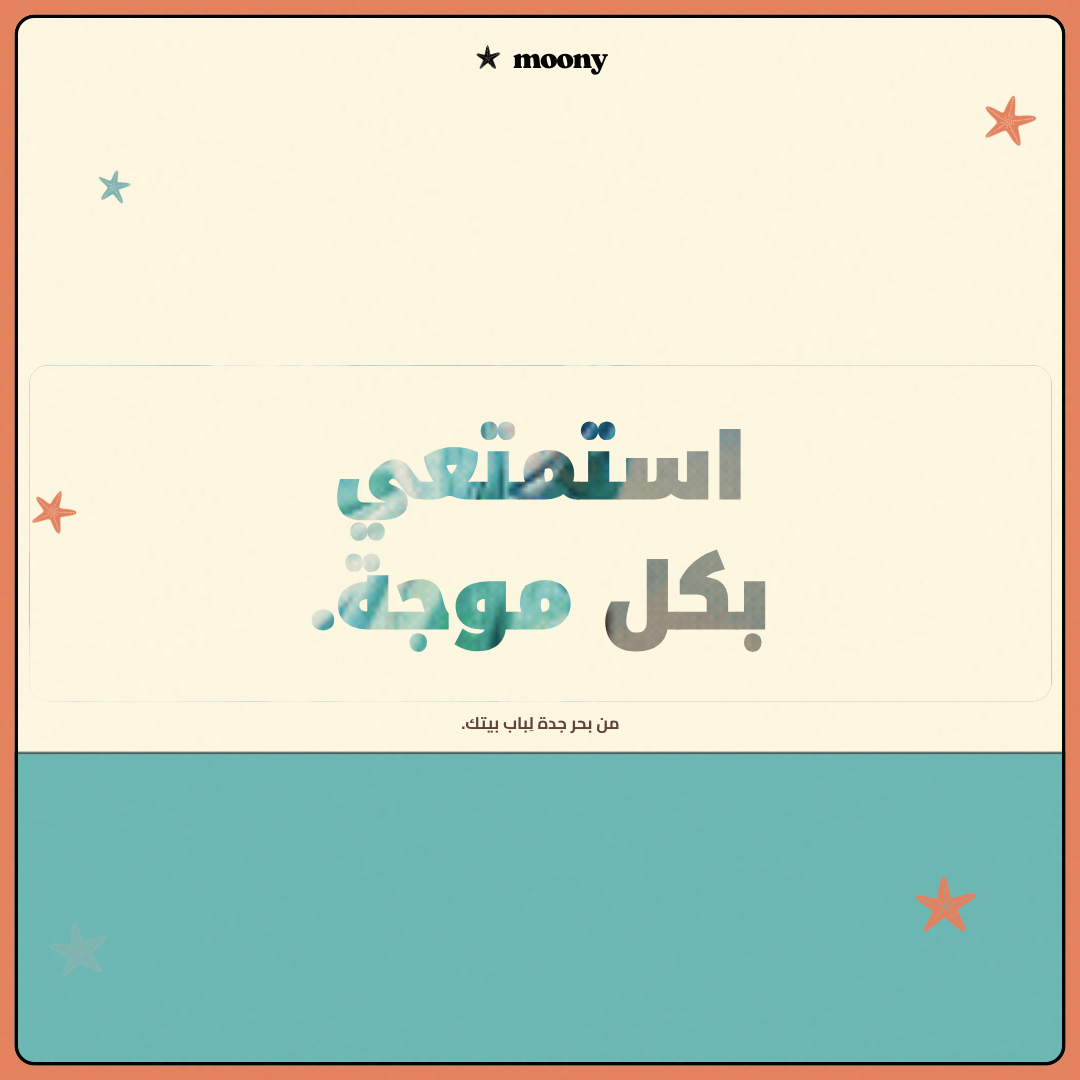
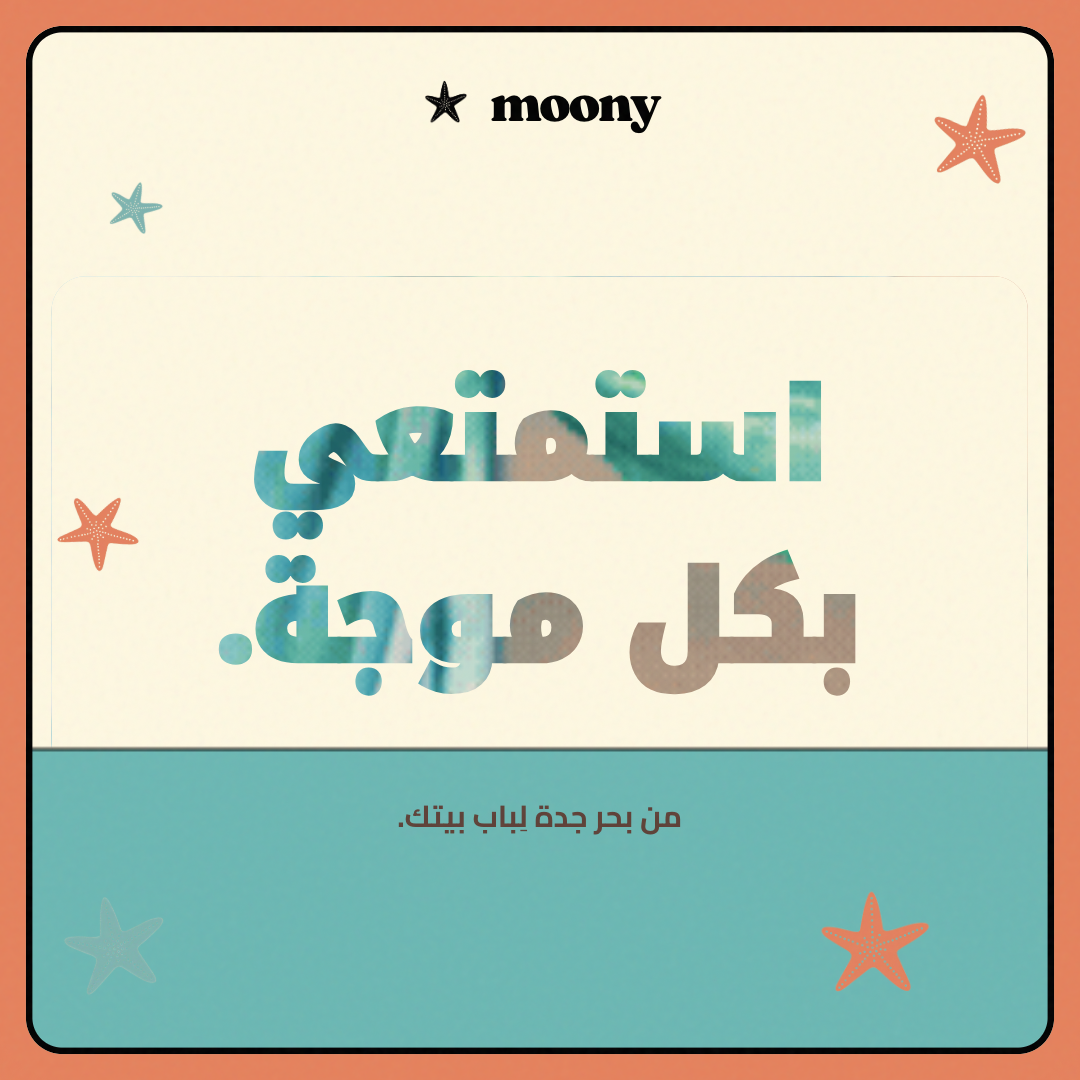
fix: update og images with larger text and formed wave animation

diff --git a/capture-og.js b/capture-og.js
@@ -14,8 +14,8 @@ async function main() {
   const browser = await puppeteer.launch({ headless: 'new' });
   const page = await browser.newPage();
   
-  // Use 900x900 (mobile layout so we get rounded corners) x 1.2 = 1080x1080 PNG (1:1 aspect ratio)
-  await page.setViewport({ width: 900, height: 900, deviceScaleFactor: 1.2 });
+  // Use 500x500 (mobile layout, less empty space) x 2.16 = 1080x1080 PNG
+  await page.setViewport({ width: 500, height: 500, deviceScaleFactor: 2.16 });
 
   const hideElements = async () => {
     await page.evaluate(() => {
@@ -50,12 +50,14 @@ async function main() {
   console.log("Capturing English OG...");
   await page.goto('http://localhost:5001/', { waitUntil: 'networkidle0' });
   await hideElements();
-  await page.screenshot({ path: 'client/public/images/og-en.png', clip: { x: 0, y: 0, width: 900, height: 900 } });
+  await new Promise(r => setTimeout(r, 2000)); // wait for wave to animate
+  await page.screenshot({ path: 'client/public/images/og-en.png', clip: { x: 0, y: 0, width: 500, height: 500 } });
 
   console.log("Capturing Arabic OG...");
   await page.goto('http://localhost:5001/ar', { waitUntil: 'networkidle0' });
   await hideElements();
-  await page.screenshot({ path: 'client/public/images/og-ar.png', clip: { x: 0, y: 0, width: 900, height: 900 } });
+  await new Promise(r => setTimeout(r, 2000)); // wait for wave to animate
+  await page.screenshot({ path: 'client/public/images/og-ar.png', clip: { x: 0, y: 0, width: 500, height: 500 } });
 
   await browser.close();
   dev.kill();
